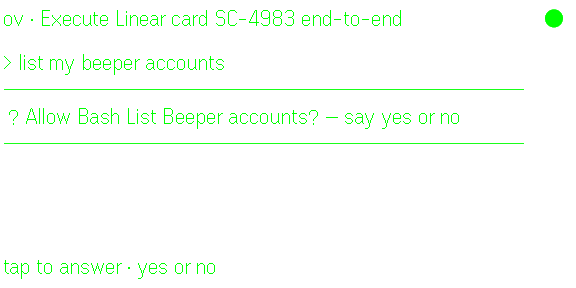
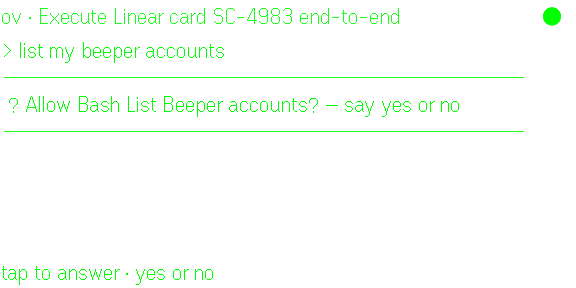
Give the lens a visual hierarchy, and reclaim an eighth line
The UI read as a flat wall because it was one: SDK 0.0.10 has no textColor, so
every glyph on screen burned at the same level. There is no font, no weight and
no size control on this display — brightness is the ONLY hierarchy available,
and we were not using it.

SDK 0.0.10 -> 0.0.14 (the lowest version that has textColor; we use no
zOrderIndex, so 0.0.15 would only raise the phone-app floor for nothing).

The thread now burns at 4, the header at 3, the status bar at 2 — content
separates from chrome for the first time.

Then the state gallery caught the obvious flaw in that: a DIM recording
indicator is worse than the flat one it replaced. Brightness follows urgency,
not the container it lives in, so the status bar goes bright while recording,
while a transcript waits to be sent, and while the agent is blocked on the
wearer — and recedes when it is only reporting "ready".

Layout re-spent to the pixel: header 32, body 224, status 32 = exactly 288,
no gaps (containers clip, so a gap buys nothing but a lost line). The thread
goes from 7 lines to 8, and the same long reply now fits in 3 pages instead
of 4.

Two duplications are now pinned by tests rather than by hope: THREAD_BODY.height
against LAYOUT.body.h (drift there computes a line the container cannot show),
and the containers tiling 288 exactly.

Also pins --sdk-ver in the pack scripts. The CLI otherwise reads npm's `latest`
and stamped min_app_version 2.2.10 for a bundle built against 0.0.14, locking
[…]

diff --git a/src/ui/render.ts b/src/ui/render.ts
@@ -11,15 +11,45 @@ export const NAMES: Record<number, string> = {
   [IDS.list]: "list", [IDS.dot]: "dot",
 };
 
+/**
+ * Brightness is the ONLY visual hierarchy this display has.
+ *
+ * One font, one weight, no sizes, no colour — but `textColor` gives five
+ * brightness levels (SDK 0.0.14+). Without it every glyph on screen carries
+ * equal weight, which is exactly why a dense screen reads as a wall. The thread
+ * is what the wearer is reading, so it burns brightest; the chrome around it
+ * steps down.
+ */
+export const BRIGHT = { body: 4, header: 3, status: 2, dot: 4 } as const;
+
+/**
+ * The vertical budget, spent to the pixel.
+ *
+ * 288 px, a 27 px line pitch, and `paddingLength` is uniform on all four sides.
+ * Header and status each need one line: 27 + 2*2 padding = 31, so 32 each.
+ * That leaves 224 for the thread, which at 4 px padding is 216 inner and
+ * floor(216/27) = **8 lines** — one more than the old 200 px body gave.
+ *
+ * There is deliberately no gap between containers. Containers clip their own
+ * content, so a gap buys nothing but a lost line.
+ */
+export const LAYOUT = {
+  header: { y: 0, h: 32, w: 540, pad: 2 },
+  dot: { y: 0, h: 32, x: 540, w: 36, pad: 2 },
+  body: { y: 32, h: 224, w: 576, pad: 4 },
+  status: { y: 256, h: 32, w: 576, pad: 2 },
+} as const;
+
 // The 4 chat text containers (header, dot, body, status), shared by showSessionPage.
 // createStartUpPageContainer is one-shot, so the startup page is the list;
 // re-entering a session uses rebuildPageContainer with these 4 text containers.
 function chatTextObjects(): TextContainerProperty[] {
+  const L = LAYOUT;
   return [
-    new TextContainerProperty({ containerID: IDS.header, containerName: "header", xPosition: 0,   yPosition: 0,   width: 540, height: 40,  paddingLength: 4, content: "Claude Code" }),
-    new TextContainerProperty({ containerID: IDS.dot,    containerName: "dot",    xPosition: 540, yPosition: 0,   width: 36,  height: 40,  paddingLength: 4, content: "◌" }),
-    new TextContainerProperty({ containerID: IDS.body,   containerName: "body",   xPosition: 0,   yPosition: 44,  width: 576, height: 200, paddingLength: 4, content: "", isEventCapture: 1 }),
-    new TextContainerProperty({ containerID: IDS.status, containerName: "status", xPosition: 0,   yPosition: 248, width: 576, height: 36,  paddingLength: 4, content: "connecting…" }),
+    new TextContainerProperty({ containerID: IDS.header, containerName: "header", xPosition: 0,     yPosition: L.header.y, width: L.header.w, height: L.header.h, paddingLength: L.header.pad, textColor: BRIGHT.header, content: "Claude Code" }),
+    new TextContainerProperty({ containerID: IDS.dot,    containerName: "dot",    xPosition: L.dot.x, yPosition: L.dot.y,   width: L.dot.w,    height: L.dot.h,    paddingLength: L.dot.pad,    textColor: BRIGHT.dot,    content: "◌" }),
+    new TextContainerProperty({ containerID: IDS.body,   containerName: "body",   xPosition: 0,     yPosition: L.body.y,   width: L.body.w,   height: L.body.h,   paddingLength: L.body.pad,   textColor: BRIGHT.body,   content: "", isEventCapture: 1 }),
+    new TextContainerProperty({ containerID: IDS.status, containerName: "status", xPosition: 0,     yPosition: L.status.y, width: L.status.w, height: L.status.h, paddingLength: L.status.pad, textColor: BRIGHT.status, content: "connecting…" }),
   ];
 }
 
@@ -129,12 +159,18 @@ export async function showListPage(bridge: EvenAppBridge, rows: string[]): Promi
   }));
 }
 
-export async function setText(bridge: EvenAppBridge, id: number, content: string): Promise<void> {
+/**
+ * `textColor` is a per-call override, and the SDK keeps the container's current
+ * brightness when it is omitted — so a caller that cares passes one, and a
+ * caller that does not leaves the page's declared level alone.
+ */
+export async function setText(bridge: EvenAppBridge, id: number, content: string, textColor?: number): Promise<void> {
   await bridge.textContainerUpgrade(new TextContainerUpgrade({
     containerID: id,
     containerName: NAMES[id],
     contentOffset: 0,
     contentLength: 0,   // full replacement (glasses-ui requirement)
+    ...(textColor === undefined ? {} : { textColor }),
     content,
   }));
 }

diff --git a/tests/multihost.test.ts b/tests/multihost.test.ts
@@ -2,10 +2,11 @@ import { describe, expect, it } from "vitest";
 import { dispatch } from "../src/input/dispatch";
 import { initialState, openAsk, reduce, barText, type AppState } from "../src/state/store";
 import { sessionsNew, sessionsSwitch, sessionsList, type HostItem, type SessionItem } from "../src/protocol";
-import { listRows, alertText, buildListView, headerText } from "../src/ui/views";
+import { listRows, alertText, buildListView, headerText, statusBrightness } from "../src/ui/views";
 import { getTextWidth } from "@evenrealities/pretext";
 import { newSessionRows, sessionForListIndex } from "../src/ui/session-list";
-import { byteLength, clampToBudget, threadPages, VIEWPORT_BYTE_BUDGET } from "../src/ui/stream";
+import { byteLength, clampToBudget, threadPages, THREAD_BODY, VIEWPORT_BYTE_BUDGET } from "../src/ui/stream";
+import { BRIGHT, LAYOUT } from "../src/ui/render";
 
 const HOSTS: HostItem[] = [
   { key: "ov", name: "overlord", online: true },
@@ -274,5 +275,70 @@ describe("things the firmware silently drops or clips", () => {
   it("a short title is left intact rather than needlessly truncated", () => {
     expect(headerText("ov", "deploy")).toBe("ov · deploy");
     expect(headerText(undefined, "deploy")).toBe("deploy");
+  });
+});
+
+describe("the layout and the viewport math must agree", () => {
+  // THREAD_BODY.height duplicates LAYOUT.body.h. If they drift, the viewport
+  // computes a line count the container cannot show, and the last line is
+  // clipped with no error anywhere.
+  it("the thread viewport is sized from the real body container", () => {
+    expect(THREAD_BODY.height).toBe(LAYOUT.body.h);
+    expect(THREAD_BODY.padding).toBe(LAYOUT.body.pad);
+    expect(THREAD_BODY.width).toBe(LAYOUT.body.w);
+  });
+
+  it("the containers tile the 288px canvas exactly, with no gap and no overflow", () => {
+    expect(LAYOUT.header.h).toBe(LAYOUT.dot.h);
+    expect(LAYOUT.header.y + LAYOUT.header.h).toBe(LAYOUT.body.y);
+    expect(LAYOUT.body.y + LAYOUT.body.h).toBe(LAYOUT.status.y);
+    expect(LAYOUT.status.y + LAYOUT.status.h).toBe(288);
+  });
+
+  it("the header stops exactly where the connection dot starts", () => {
+    expect(LAYOUT.header.w).toBe(LAYOUT.dot.x);
+    expect(LAYOUT.dot.x + LAYOUT.dot.w).toBe(576);
+  });
+
+  it("every container fits one line of text after padding", () => {
+    for (const c of [LAYOUT.header, LAYOUT.dot, LAYOUT.status]) {
+      expect(c.h - 2 * c.pad).toBeGreaterThanOrEqual(THREAD_BODY.lineHeight);
+    }
+  });
+
+  it("brightness is a real hierarchy, and every level is in the SDK's 0-4 range", () => {
+    // Five brightness levels are the ONLY visual hierarchy this display has:
+    // one font, one weight, no sizes. Flat brightness is why a dense screen
+    // reads as a wall.
+    expect(BRIGHT.body).toBeGreaterThan(BRIGHT.header);
+    expect(BRIGHT.header).toBeGreaterThan(BRIGHT.status);
+    for (const v of Object.values(BRIGHT)) {
+      expect(v).toBeGreaterThanOrEqual(0);
+      expect(v).toBeLessThanOrEqual(4);
+    }
+  });
+});
+
+describe("brightness follows urgency, not the container", () => {
+  // A dim recording indicator is worse than the flat one it replaced. The
+  // status bar is chrome when it reads "ready" and a demand when it reads
+  // "recording" or "tap to answer".
+  it("the status bar burns bright while recording", () => {
+    expect(statusBrightness(loaded({ screen: "session", phase: "recording" }))).toBe(BRIGHT.body);
+  });
+
+  it("and while a transcript is waiting to be sent", () => {
+    expect(statusBrightness(loaded({ screen: "session", phase: "review" }))).toBe(BRIGHT.body);
+  });
+
+  it("and while the agent is blocked on the wearer", () => {
+    const asking = reduce(loaded({ screen: "session" }), {
+      t: "ask", ask: "permission", text: "Allow it? — say yes or no", options: ["allow", "deny"],
+    });
+    expect(statusBrightness(asking)).toBe(BRIGHT.body);
+  });
+
+  it("but recedes when it is only reporting state", () => {
+    expect(statusBrightness(loaded({ screen: "session" }))).toBe(BRIGHT.status);
   });
 });

diff --git a/src/ui/views.ts b/src/ui/views.ts
@@ -1,7 +1,7 @@
 import type { EvenAppBridge } from "@evenrealities/even_hub_sdk";
 import type { AppState, StreamItem } from "../state/store";
-import { barText, connDot, isHistoryLoading } from "../state/store";
-import { IDS, setText, showAlertPage, showListPage, showLoadingPage } from "./render";
+import { barText, connDot, isHistoryLoading, openAsk } from "../state/store";
+import { BRIGHT, IDS, setText, showAlertPage, showListPage, showLoadingPage } from "./render";
 import { getTextWidth } from "@evenrealities/pretext";
 import { LOADING_SESSIONS_ROW, newSessionRows, orderedSessions, sessionListRows, truncateTitle } from "./session-list";
 import { clampToBudget, currentThreadViewport, wrapTextLines } from "./stream";
@@ -132,6 +132,19 @@ export function headerText(host: string | undefined, title: string): string {
   return prefix + truncateTitle(title, HEADER_TEXT_WIDTH_PX - getTextWidth(prefix));
 }
 
+/**
+ * The status bar is chrome when it says "ready" and a DEMAND when it says
+ * "recording" or "tap to answer". Brightness has to follow urgency, not the
+ * container it happens to live in — a dim recording indicator is worse than the
+ * flat one it replaced, which is exactly what the state gallery caught on the
+ * first pass at this hierarchy.
+ */
+export function statusBrightness(s: AppState): number {
+  if (s.phase === "recording" || s.phase === "review") return BRIGHT.body;
+  if (openAsk(s)) return BRIGHT.body;
+  return BRIGHT.status;
+}
+
 export async function renderSession(bridge: EvenAppBridge, s: AppState): Promise<void> {
   const active = s.sessions.items.find((i) => i.id === s.sessions.active);
   const title = active && active.title.trim() ? active.title : "Claude Code";
@@ -145,7 +158,7 @@ export async function renderSession(bridge: EvenAppBridge, s: AppState): Promise
       : threadViewportText(s);
   await setText(bridge, IDS.body, body);
 
-  await setText(bridge, IDS.status, statusText(s));
+  await setText(bridge, IDS.status, statusText(s), statusBrightness(s));
 }
 
 function threadViewportText(s: AppState): string {

diff --git a/src/ui/stream.ts b/src/ui/stream.ts
@@ -7,7 +7,7 @@ const RULE = "─".repeat(26);
 
 export const THREAD_BODY = {
   width: 576,
-  height: 200,
+  height: 224,   // must track LAYOUT.body.h in ui/render.ts — see the assertion in tests
   padding: 4,
   lineHeight: 27,
   overlapLines: 2,
